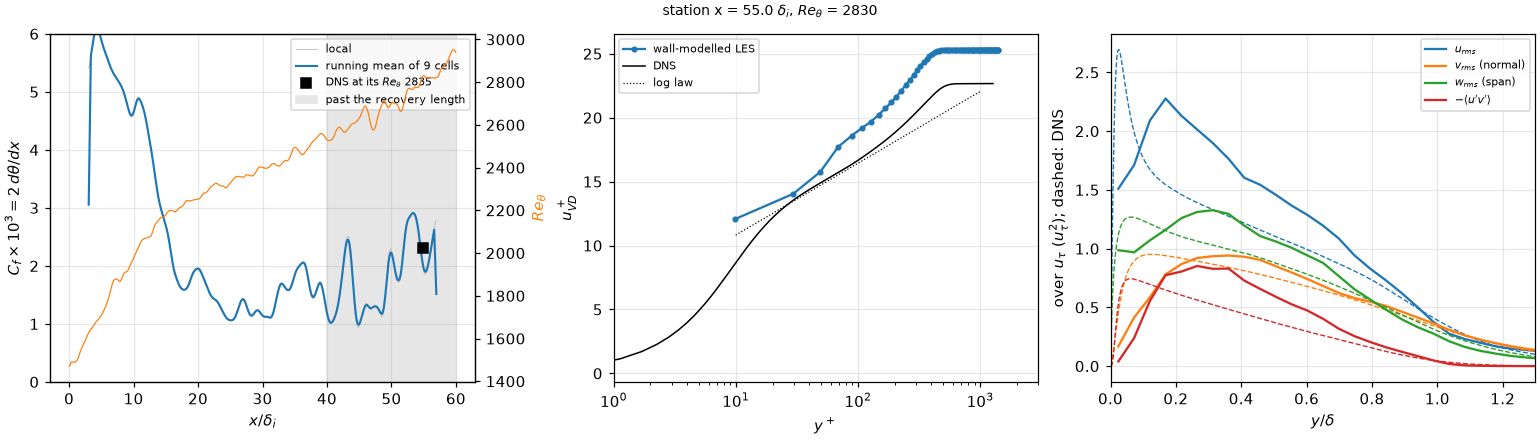
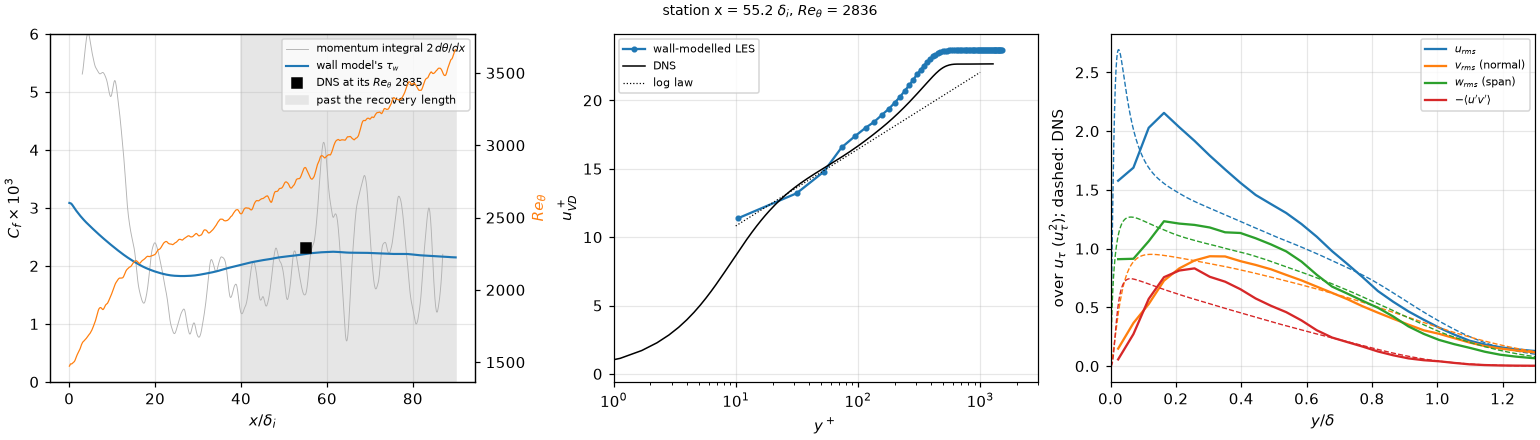
test(flume): the Mach 2.5 boundary layer on a 90 delta_i box, C_f from the wall model's tau_w (#119)
The M2p5 layer of the Zhang-Duan-Choudhari DNS again (tbl_cases_t37_l90.txt):
1080 x 72 x 72 cells over 90 x 6 x 6 inflow thicknesses (the same delta_i / 12),
so the DNS's Re_theta (reached at x ~ 55) lies 35 delta_i before the outflow,
with [diagnostics] wall_history_save every 20 steps: C_f is the wall model's own
tau_w, not the momentum integral.

Runs on medooza (dev-gn, one job at a time, adam-tests/i119-tauw): jobs 1361350,
1361353 (to t = 180), 1361355, 1361356 (to t = 360), all exit 0; 0.40 s per
step on 4 A30 with the history.

Result (tbl_oracle.py compare, the wall history and 34 checkpoints of
180 < t <= 360), at Re_theta 2836 (x = 55.2):
- C_f (tau_w) 2.208e-3 against the DNS 2.310e-3: -4.4 %; the two halves of
  the window 2.193e-3, 2.217e-3.
- C_f from the momentum integral on the same data: 1.558e-3 (-32.6 %), and
  0.9-4.1e-3 along x: it does not measure C_f here, which is why the 60 delta_i
  run (b71cbd00) reported 16-28 % low.
- the recovery: C_f 2.8e-3 at the inlet, 1.8e-3 at x ~ 25, the plateau
  2.2e-3 from x ~ 50 (the digital filter's 40 delta_i, Huang et al. 2022).
- u+_VD at y+ 30, 100, 200: 13.1, 17.5, 19.8 (DNS 13.6, 16.7, 18.8); H 3.54
  (4.10); rms over u_tau at y / delta 0.2: u 2.06 (1.49), v 0.81 (0.93),
  w 1.22 (1.12).

Docs: the verification section rewritten on this run (setup, figure with both
C_f estimates, table), leg tb2 in the contract table, the wall-history keys
in input.md; Not done updated. make_doc_figures.py: tbl-m2p5 reads
[…]

diff --git a/src/tests/flume/verification/make_doc_figures.py b/src/tests/flume/verification/make_doc_figures.py
@@ -2419,14 +2419,15 @@ def fig_channel_m3_ev(out: Path, runs: Path) -> None:
 
 
 def fig_tbl_m2p5(out: Path, runs: Path) -> None:
-    """T3.7 (issue #119): the Mach 2.5 boundary layer of the Zhang, Duan & Choudhari (2018) DNS (case M2p5), wall-modelled, digital-filter inflow,
-    tbl_cases_t37.txt, the checkpoints of 180 < t <= 360 averaged over the span and in time (tbl_oracle.py compare). Left C_f = 2 d theta / dx (a
-    quadratic fit of theta over +-3 delta_i) against Re_theta, the DNS at its station; middle u+_VD against y+ at the station of the DNS's Re_theta
+    """T3.7 (issue #119): the Mach 2.5 boundary layer of the Zhang, Duan & Choudhari (2018) DNS (case M2p5), wall-modelled, digital-filter inflow, on the
+    90 delta_i box of tbl_cases_t37_l90.txt, the checkpoints and the wall history of 180 < t <= 360 averaged over the span and in time (tbl_oracle.py
+    compare). Left C_f from the wall model's tau_w (wall_history_save) and, grey, from the momentum integral 2 d theta / dx (a quadratic fit of theta
+    over +-3 delta_i), the DNS at its station; middle u+_VD against y+ at the station of the DNS's Re_theta
     (with the run's own u_tau), the DNS and the log law (the left panel against x, Re_theta on the right axis); right the rms of u, v (wall-normal), w (spanwise) and -<u'v'> over u_tau against y / delta."""
     import json  # noqa: PLC0415
     import tempfile  # noqa: PLC0415
 
-    work = runs / "tbl" / "m2p5-wm"
+    work = runs / "tbl" / "m2p5-wm-l90"
     if not work.exists():
         raise FileNotFoundError(work)
     sys.path.insert(0, str(HERE / "turbulence"))
@@ -2442,21 +2443,19 @@ def fig_tbl_m2p5(out: Path, runs: Path) -> None:
     fig, axs = plt.subplots(1, 3, figsize=(14.0, 4.0), constrained_layout=True)
     re_t = np.array(j["re_theta"])
     cf = np.array([np.nan if c is None else c for c in j["cf"]])
-    w = 9
-    cfs = np.convolve(np.nan_to_num(cf), np.ones(w) / w, "same")
-    ok = np.isfinite(cf)
-    ok[: w // 2] = ok[-(w // 2) :] = False
+    cfm = np.array([np.nan if c is None else c for c in j["cf_mom"]])
     ax = axs[0]
     x = np.array(j["x"])
-    ax.plot(x[ok], cf[ok] * 1e3, color="0.75", lw=0.6, label="local")
-    ax.plot(x[ok], cfs[ok] * 1e3, color="C0", lw=1.4, label=f"running mean of {w} cells")
+    ok = np.isfinite(cfm)
+    ax.plot(x[ok], cfm[ok] * 1e3, color="0.7", lw=0.6, label=r"momentum integral $2\,d\theta/dx$")
+    ax.plot(x, cf * 1e3, color="C0", lw=1.4, label=r"wall model's $\tau_w$")
     ax.plot([x[ist]], [j["cf_dns"] * 1e3], "ks", label=f"DNS at its $Re_\\theta$ {j['re_dns']:.0f}")
     ax.axvspan(40.0, x[-1], color="0.9", zorder=0, label="past the recovery length")
     tw = ax.twinx()
     tw.plot(x, re_t, color="C1", lw=0.8)
     tw.set_ylabel(r"$Re_\theta$", color="C1")
     ax.set_xlabel(r"$x/\delta_i$")
-    ax.set_ylabel(r"$C_f\times10^3 = 2\,d\theta/dx$")
+    ax.set_ylabel(r"$C_f\times10^3$")
     ax.set_ylim(0.0, 6.0)
     ax = axs[1]
     ax.semilogx(j["yplus"], j["uvd"], "o-", color="C0", ms=3, label="wall-modelled LES")

diff --git a/docs/applications/flume/verification/turbulence/index.md b/docs/applications/flume/verification/turbulence/index.md
@@ -30,6 +30,7 @@ diagnostics, the keys and the models are in [input](../../input) and [numerics](
 | wm8 | inverse-transformation model: laminar channel against the equilibrium model; hot wall; one rank against 2 with the filter | $1.0\cdot10^{-4}$, the heat flux of the Reynolds analogy moving the energy by $2.3\cdot10^{-3}$ (bound $10^{-4}$); $9.8\cdot10^{-3}$ (min $10^{-3}$); $4\cdot10^{-11}$ (CPU), 0 (FNL); CPU against FNL $4\cdot10^{-11}$ |
 | wm9 | restart with the filter averages (`.wmf`, one per rank): 10 steps + restart to 20 against 20 straight, inverse-transformation model, $T_f=0.01$; control with the `.wmf` removed | fields and histories bit for bit (CPU and FNL); the control differs and warns |
 | wm10 | dimensional units on a Vreman channel with the wall model and the forcing, gas `cp, cv`: input bit for bit (NV-5), output against `scaling.py dimensionalize` (NV-9), forcing and turbulence histories included | bit for bit (CPU and FNL); bit for bit, 4 histories |
+| tb2 | wall-model history: $\tau_w$ of wm5's laminar channel against the driving force; one rank against 2 on the Mach 2.5 box; CPU against GPU | $3.9\cdot10^{-4}$ (bound $10^{-3}$); $4\cdot10^{-16}$; $1.1\cdot10^{-13}$ |
 | tb1 | digital-filter inflow: the generator's stresses, temporal and spanwise correlations, periodic span, plane restart (`test_inflow_df`); a Mach 2.5 box: the inflow ghosts carry the table; one rank against 2; restart with the `.dff` against straight, control without it | stresses 0.4–0.7 % (bound 3 %), correlation exact, integral length 5 % short (bound 10 %); $\langle u\rangle$ at $\delta/2$ 0.877 against 0.891; $2\cdot10^{-16}$; fields and histories bit for bit (CPU and FNL), the control differs; FNL against CPU $10^{-15}$ |
 | hy3 | the central flux: order, kinetic energy identity, pressure equilibrium | order 5.96–5.99; $4\cdot10^{-16}$; $dp/dt$ $9\cdot10^{-15}$ across 100:1 |
 | hy4 | contact of density ratio 8 and 100 | $u$, $p$ within $9\cdot10^{-14}$ |
@@ -341,51 +342,52 @@ forcing work in 50-unit windows, 1 at a thermal steady state.*
 The zero-pressure-gradient layer of the DNS of Zhang, Duan & Choudhari (2018, AIAA J 56(11)), case M2p5: Mach 2.5, adiabatic wall
 ($T_w/T_r=1$), $Re_\theta=2835$ and $Re_\tau=510$ at its station. The station profiles come from the NASA Turbulence Modeling Resource
 (`turbulence/reference/`). The layer is fed through the face `inflow-digital-filter` ([numerics](../../numerics.md)): the DNS station profile scaled
-to the inflow thickness $\delta_i$, with fluctuations that have the DNS Reynolds stresses.
+to the inflow thickness $\delta_i$, with fluctuations that have the DNS Reynolds stresses. $C_f$ is the wall model's own $\tau_w$, written by
+`[diagnostics] wall_history_save` (leg tb2).
 
 | Setup | |
 |---|---|
-| box, cells | $60\times6\times6\,\delta_i$, $720\times72\times72$, cubic $\delta_i/12$; periodic span, extrapolated top and outflow |
+| box, cells | $90\times6\times6\,\delta_i$, $1080\times72\times72$, cubic $\delta_i/12$; periodic span, extrapolated top and outflow |
 | gas | $Re=U_\infty\delta_i/\nu_\infty=19370$ (the DNS's 4 mm $\delta_i$), $\mu\propto T^{0.76}$ (the DNS uses Sutherland), $Pr=0.71$ |
 | wall | `wall-modelled`, $T_w=2.104\,T_\infty$, the 3rd cell, semi-local damping, its eddy viscosity below $h$ (the setting that matched the Mach 3 channel) |
 | inflow | integral lengths $0.8$, $0.3$, $0.3\,\delta_i$ (streamwise as a time scale $L_x/U_\infty$, wall-normal, spanwise) |
 | scheme | `hybrid-kep-weno`, no subgrid model |
-| run | `tbl_cases_t37.txt`, to $t=360\,\delta_i/U_\infty$ (6 flow-throughs); 33 checkpoints of $180<t\le360$ averaged over the span and in time (`tbl_oracle.py compare`) |
+| run | `tbl_cases_t37_l90.txt`, to $t=360\,\delta_i/U_\infty$ (4 flow-throughs); the wall history every 20 steps and 34 checkpoints of $180<t\le360$, averaged over the span and in time (`tbl_oracle.py compare`); 0.40 s per step on 4 A30 |
 
 ![The Mach 2.5 boundary layer against the DNS](/flume/tbl-m2p5.png)
 
-*Left: $C_f=2\,d\theta/dx$ (a quadratic fit of $\theta$ over $\pm3\,\delta_i$) and $Re_\theta$ against $x$; the square is the DNS at its
-$Re_\theta$. Middle: $u^+_{VD}$ at the station where $Re_\theta$ is the DNS's, scaled with the run's own $u_\tau$. Right: the rms over $u_\tau$ at the
-same station; dashed: the DNS.*
+*Left: $C_f$ from the wall model's $\tau_w$ (blue) and from the momentum integral $2\,d\theta/dx$ (grey), and $Re_\theta$ (right axis) against
+$x$; the square is the DNS at its $Re_\theta$. Middle: $u^+_{VD}$ at the station where $Re_\theta$ is the DNS's, scaled with the run's $u_\tau$. Right:
+the rms over $u_\tau$ at the same station; dashed: the DNS.*
 
-| At $Re_\theta=2830$ ($x=55\,\delta_i$) | LES | DNS |
+| At $Re_\theta=2836$ ($x=55\,\delta_i$) | LES | DNS |
 |---|---|---|
-| $C_f$, momentum integral at the station | 1.94e-3 | 2.31e-3 |
-| $C_f$, linear fit of $\theta$ over $40\le x\le57$ | 1.81e-3 | |
-| $H$ | 3.49 | 4.10 |
-| $u^+_{VD}$ at $y^+=100$, $200$ | 18.9, 21.5 | 16.7, 18.8 |
-| $u_{rms}$, $v_{rms}$, $w_{rms}$ over $u_\tau$ at $y/\delta=0.2$ | 2.18, 0.84, 1.22 | 1.49, 0.93, 1.12 |
-| $-\langle u'v'\rangle/u_\tau^2$ at $y/\delta=0.2$, $0.5$ | 0.79, 0.60 | 0.62, 0.37 |
+| $C_f$, the wall model's $\tau_w$ | **2.21e-3** (the two halves of the window 2.19e-3, 2.22e-3) | 2.31e-3 |
+| $C_f$, momentum integral | 1.56e-3 | |
+| $H$ | 3.54 | 4.10 |
+| $u^+_{VD}$ at $y^+=30$, $100$, $200$ | 13.1, 17.5, 19.8 | 13.6, 16.7, 18.8 |
+| $u_{rms}$, $v_{rms}$, $w_{rms}$ over $u_\tau$ at $y/\delta=0.2$ | 2.06, 0.81, 1.22 | 1.49, 0.93, 1.12 |
+| $-\langle u'v'\rangle/u_\tau^2$ at $y/\delta=0.2$, $0.5$ | 0.80, 0.50 | 0.62, 0.37 |
 
 **What it shows.**
-- **The inflow works.** The layer grows from $Re_\theta=1630$ at the inlet to the DNS's 2835 at $x=55\,\delta_i$, against 53 in the DNS. $C_f$ falls
-  from about $5\cdot10^{-3}$ near the inlet, the adaptation of the synthetic eddies, to a plateau after $x\approx18$.
-- **The wall model under-predicts $C_f$ by 16–28 %.** That is the range of linear fits of $\theta$ over $45\le x\le57$ and $30\le x\le57$ (1.93e-3,
-  1.67e-3 against 2.31e-3); the local values on the plateau, $18<x<50$, are 1.1–2.0e-3 at lower $Re_\theta$, where the DNS's $C_f$ would be
-  higher still. The log layer is
-  shifted up by about 2 in $u^+_{VD}$, the signature of a low $u_\tau$. $u_{rms}$ peaks too high and too far out, the usual near-wall streaks of a
-  coarse LES.
-- **The number is not tight.** $C_f$ rests on the momentum integral alone: the wall model's $\tau_w$ is not an output. The station of the DNS's
-  $Re_\theta$ lies $5\,\delta_i$ before the outflow, where $C_f$ rises back to the DNS value, and only $15\,\delta_i$ past the recovery length of a
-  digital filter at this Mach number ($40\,\delta_i$; Huang, Duan & Choudhari 2022). An estimate from the resolved total shear stress scaled by the
-  DNS's stress profile is no better: it gives $-48$ % at $0.1\,\delta$ to $+29$ % at $0.3\,\delta$, because below $h$ the stress is the wall model's.
+- **$C_f$ within 4.4 % of the DNS** at its $Re_\theta$, with the setting that matched the Mach 3 channel. The two halves of the averaging window
+  differ by 1.1 %.
+- **The inflow recovers by $x\approx50\,\delta_i$.** The layer reaches the DNS's $Re_\theta$ at $x=55$, against 53 in the DNS. $C_f$ falls from
+  $2.8\cdot10^{-3}$ at the inlet to $1.8\cdot10^{-3}$ at $x\approx25$, the adaptation of the synthetic eddies, then rises to a plateau of
+  $2.2\cdot10^{-3}$ from $x\approx50$. That matches the $40\,\delta_i$ recovery length of a digital filter at this Mach number (Huang, Duan &
+  Choudhari 2022).
+- **The momentum integral does not measure $C_f$ here.** Fitted over $\pm3\,\delta_i$, $2\,d\theta/dx$ swings between $0.9$ and $4\cdot10^{-3}$
+  along $x$ on the same averaged data, and is $-33$ % at the station. A first run on a $60\,\delta_i$ box had only this estimate, and it reported
+  $C_f$ 16–28 % low.
+- **The log layer sits 0.9–1.0 above the DNS in $u^+_{VD}$**, and the wake gives $H$ 14 % low. $u_{rms}$ peaks too high, the near-wall streaks of a
+  coarse LES. The resolved $-\langle u'v'\rangle$ in the outer layer is above the DNS's.
 
 ## Not done
 
 - HLLC at $256^3$, M 0.1 was dropped by owner decision.
 - Spectra against the DNS: the file holds integrals only. The DNS of Johnsen et al. for the isotropic case.
 - Calibration of the sensor; a model masked by face rather than by cell; `central-bcs` on a forest seam.
-- T3: why the classical damping overshoots at Mach 3; a cheaper flux path below $h$; the boundary layer: the wall model's $\tau_w$ as an output, a longer box or a lower inflow $Re_\theta$ so the
-  DNS station falls mid-domain, a resolution ladder and the matching height, the Mach 5.86 cold-wall case (its DNS file is in `reference/`); SBLI; runtime regridding along a modelled wall; mean profiles
+- T3: why the classical damping overshoots at Mach 3; a cheaper flux path below $h$; the boundary layer: a resolution ladder and the matching height, the Mach 5.86 cold-wall case (its DNS file is
+  in `reference/`); SBLI; runtime regridding along a modelled wall; mean profiles
   against the DNS; the relaminarisation of the inverse model on $96\times48\times48$ with $u_e = 1.18$; an edge state taken from the flow.
 - A model on 2:1 grids beyond conservation; runtime AMR with a model; a wall.

diff --git a/docs/applications/flume/input.md b/docs/applications/flume/input.md
@@ -67,6 +67,7 @@ FLUME has no output-format selector. It always writes these files:
 | Residuals history (ASCII, Tecplot header) | `<output_basename>-residuals.dat` | `residuals_save` |
 | Conservation history (ASCII) | `<output_basename>-conservation_history.dat` | `[diagnostics].conservation_history_save` |
 | Turbulence history (ASCII, optional) | `<output_basename>-turbulence_history.dat` | `[diagnostics].turbulence_history_save` |
+| Wall-model history (ASCII, optional) | `<output_basename>-wall_<face>_history.dat` | `[diagnostics].wall_history_save` |
 | div(B) history (MHD only) | `<output_basename>-divb_history.dat` | `[diagnostics].conservation_history_save` |
 | Slices (MPI-IO binary) | `<output_basename>-slice_NN-<it:9>.mat` | `[slices]`, `[slice_N]` |
 
@@ -692,6 +693,9 @@ Every key is required, and none has a range check.
 | `ghost_poison` | logical | no (`.false.`) | Verification instrument (issue #65): before each field write every ghost cell is set to NaN and refilled in the order of a stage (seams, exchange, boundary conditions), so a ghost the fill misses, or reads before its donor is written, is written as NaN instead of a stale value. Used by the ghost probe GP; it costs one pass over the ghosts per write. |
 | `divb_flux` | logical | no (`.false.`) | MHD with GLM or EGLM ([#68](https://github.com/szaghi/adam/issues/68) A2): adds four columns to `-divb_history.dat` (`max_dflux`, `l1_dflux`, `seam_max_dflux`, `max_h_dflux_over_bmax`). D_flux is the divergence the cleaning acts on: that of the interface normal field $B_n = F_\psi/s$ read from the scheme's own $\psi$ face fluxes ($s = c_h^2$ GLM, $c_h$ EGLM), the coarse 2:1 faces taking the fine fluxes (the reflux), so its integral over a composite periodic domain is round-off. The last column is the scale-free $\max(h\,|D_\text{flux}|)/\max|\mathbf B|$. Each history row costs one residual evaluation of the committed state, on the idle RK stage buffers: fatal without GLM/EGLM or with a one-stage scheme. An inter-realm seam keeps each side's own flux; the step-0 row, written before the forest builds its register, has no reflux substitution and no seam column (as the centred one). |
 | `turbulence_history_save` | int | no (0, disabled) | Cadence (steps) of `<output_basename>-turbulence_history.dat`: volume integrals `K` ($\rho\lvert u\rvert^2/2$), `Z` ($\rho\lvert\omega\rvert^2/2$), `eps_s` ($\mu\lvert\omega\rvert^2$), `eps_d` ($\tfrac43\mu\theta^2$), `eps` ($\tau_{ij}\partial_j u_i$), `pd` ($p\theta$), from 4th-order central velocity gradients, not divided by the volume, in the output units of [`[reference]`](#reference-optional-dimensional-input) (`K` an energy $\rho_0u_0^2L_0^3$, `Z` $\rho_0u_0^2L_0$, the others a power $\rho_0u_0^3L_0^2$). In a periodic box $dK/dt = $ `pd` $-$ `eps`, up to the scheme's numerical dissipation. Needs `ngc >= 2`. On a forest of several realms there is no step-0 row: the seams are not built yet. Each row refreshes the ghosts and the auxiliary variables of the committed state ([#119](https://github.com/szaghi/adam/issues/119)). |
+| `wall_history_save` | int | no (0, disabled) | Cadence (steps) of `<output_basename>-wall_<face>_history.dat`, one file per `wall-modelled` face: `it`, `time`, then the wall shear stress along `wall_history_axis` (positive for a drag of a flow along $+$axis) and the wall heat flux ($k\,dT/dy$ at the wall, positive when the gas is hotter), each area-averaged over the face cells in `wall_history_bins` equal bins along the axis; code units, appended on restart. The model is evaluated on the committed state at its sample with the solvers the face fluxes use, so it is the stress the solver applies (with `wall_model_filter`, the unfiltered one) ([#119](https://github.com/szaghi/adam/issues/119) T3.7). |
+| `wall_history_bins` | int | with `wall_history_save` | Bins along the axis, `>= 1` (fatal otherwise). |
+| `wall_history_axis` | string | no (`x`) | `x`, `y` or `z`, not the normal of a modelled face (fatal). |
 
 ---
 
